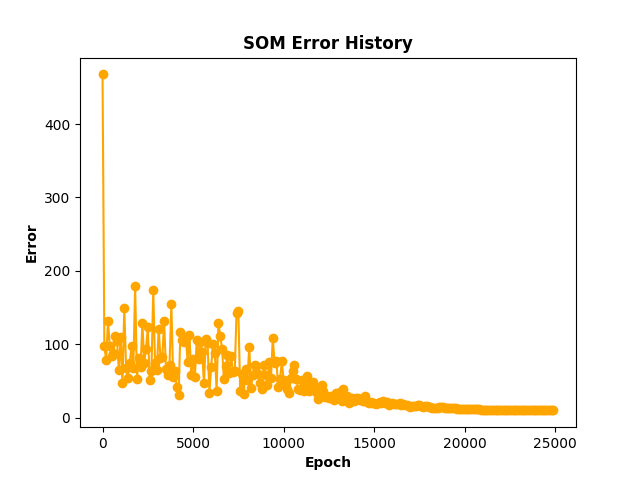
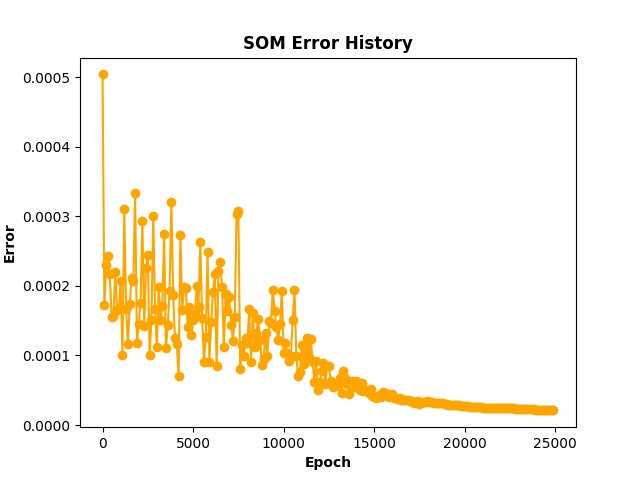
feature normalization

diff --git a/main.py b/main.py
@@ -7,6 +7,14 @@ FORMAT = '%(filename)s line:%(lineno)d\t%(message)s'
 logging.basicConfig(level=logging.INFO,format=FORMAT)
 print = logging.info
 
+def feature_normalizatoion(X):
+    for i in range(len(X)):
+        x = X[i]
+        x_sqare_sum = np.sum(x**2)
+        x = [f/x_sqare_sum for f in x]
+        X[i] = x
+    return X
+
 def make_XY(data):
     X,Y = [],[]
     for d in data:
@@ -23,7 +31,8 @@ if __name__ == "__main__":
         data = f.read()
     data = data.split('\n')[:-1]
     X,Y = make_XY(data)
-
+    X = feature_normalizatoion(X)
+    # exit()
     FEATURE_COUNT = len(X[0])
     CLASS_COUNT = len(list(set(Y)))
     print('FEATURE_COUNT:%d'%FEATURE_COUNT)
